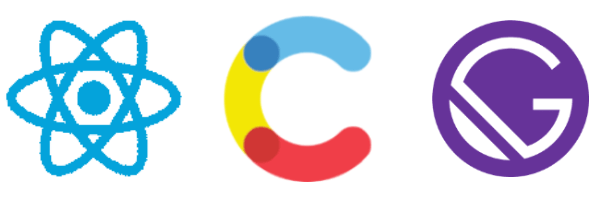
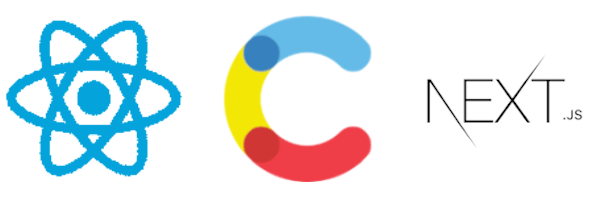
add new projects and change marketing to content man..

Changed region(s): [[0.69, 0.09, 0.99, 0.9]]

diff --git a/src/data/projects.js b/src/data/projects.js
@@ -5,11 +5,12 @@ import BibusIcon from '../images/our-work/Icons02-BIBUS.png';
 import BibusImg from '../images/our-work/bibus01.png';
 import MSM from '../images/our-work/msmnet.png';
 import PortfolioIcon from '../images/our-work/Icons02-Portfolio.png';
-import SilverbackImg from '../images/our-work/traveling-silverback01.png';
-import SilverbackIcon from '../images/our-work/weeblyIcon.png';
-import HTEIcon2 from '../images/our-work/Icons02-HTE-S.png';
-import JakeLifeImg from '../images/our-work/jake-life.png';
-import JakeLifeIcons from '../images/our-work/jakeIcons.png';
+import LiveAbroadImage from '../images/our-work/live-abroad-now.png';
+import LiveAbroadIcons from '../images/our-work/live-abroad-icons.png';
+import HTEIcon2 from '../images/our-work/hte-icons.png';
+import VenturaTravelImg from '../images/our-work/ventura-travel.png';
+import VenturaTravelIcons from '../images/our-work/ventura-travel-icon.png';
+import SocialSpanishIcons from '../images/our-work/jakeIcons.png';
 import LogoIcons from '../images/our-work/logoIcons.png';
 import AccountingImg from '../images/our-work/accounting.png';
 import AccountingIcon from '../images/our-work/accountingIcon.png';
@@ -19,6 +20,16 @@ import SocialSpanish from '../images/our-work/socialSpanish.png';
 const projects = [
   {
     id: 1,
+    title: 'Ventura Travel',
+    desc:
+      'We support the German company Ventura-Travel to build a complex, multi-brand, multi-language website with a custom CMS/admin. A primary focus is the SEO performance.',
+    img: VenturaTravelImg,
+    icon: VenturaTravelIcons,
+    link: 'https://www.viventura.de/',
+    category: 'web',
+  },
+  {
+    id: 2,
     title: 'Accounting App',
     desc: `This is an accounting app for income, expenses and capital. It's built with React.js, Firebase and Material Design. Login is test@test.com - 123456`,
     img: AccountingImg,
@@ -26,22 +37,12 @@ const projects = [
     link: 'https://accounting3-test-env-dev.netlify.app/',
     category: 'web',
   },
-  {
-    id: 2,
-    title: 'MSMNET Security',
-    desc:
-      'The goal of this project was to create a clear call to action to generate more leads for the client. The website is fully customized and performant.',
-    img: MSM,
-    icon: PortfolioIcon,
-    link: 'https://www.msmnetsecurity.com/',
-    category: 'web',
-  },
 
   {
     id: 3,
     title: 'Medellin Real Estate',
     desc:
-      'This is a website which includes a database fetched directory and a fully functional real estate site, completely built by us.',
+      'This is a website which includes a database fetched CMS and a performant real estate website. The project was completely built by us.',
     img: HTMImg,
     icon: HTMIcon,
     link: 'https://medellin-real-estate.com/',
@@ -53,7 +54,7 @@ const projects = [
     desc:
       'Social Spanish is a website of an online entrepreneur. The goal of the website was to generate more leads, which we achieved with a special quiz.',
     img: SocialSpanish,
-    icon: JakeLifeIcons,
+    icon: SocialSpanishIcons,
     link: 'https://socialspanish.co/',
     category: 'design',
   },
@@ -70,12 +71,12 @@ const projects = [
 
   {
     id: 6,
-    title: 'Jake | Life Coach',
+    title: 'MSMNET Security',
     desc:
-      'We were able to created a personal coach website with a logo, branding and a blog. Important was to keep the design elegant and professional.',
-    img: JakeLifeImg,
-    icon: JakeLifeIcons,
-    link: 'https://lifebyjake.site/',
+      'The goal of this project was to create a clear call to action to generate more leads for the client. The website is fully customized and SEO performant.',
+    img: MSM,
+    icon: PortfolioIcon,
+    link: 'https://www.msmnetsecurity.com/',
     category: 'design',
   },
   {
@@ -87,24 +88,24 @@ const projects = [
     link: 'https://www.bibus.ch/',
     category: 'marketing',
   },
-
   {
     id: 8,
-    title: 'How To Expat',
+    title: 'Live Abroad Now',
     desc:
-      'With How To Expat we were able to generate more than USD 30k in sales in the first year. We executed a complete marketing plan, mostly based on organic traffic.',
-    img: HTEImg,
-    icon: HTEIcon2,
-    link: 'https://www.how-to-expat.com/',
+      'We were able to support Live Abroad Now to get over 3000 subscribers in 4 months. We have been offering support with content management and video editing.',
+    img: LiveAbroadImage,
+    icon: LiveAbroadIcons,
+    link: 'https://liveabroadnow.com/',
     category: 'marketing',
   },
   {
     id: 9,
-    title: 'Silverback',
-    desc: `This was the first ever website built in 2015. We got over 32k users in the first year through SEO. It's not active anymore but it holds a special place in our hearts.`,
-    img: SilverbackImg,
-    icon: SilverbackIcon,
-    link: 'https://travelingsilverback.weebly.com',
+    title: 'How To Expat',
+    desc:
+      'With How To Expat we were able to generate more than USD 30k in sales in the first year. We executed a complete marketing plan, based only on organic traffic.',
+    img: HTEImg,
+    icon: HTEIcon2,
+    link: 'https://www.how-to-expat.com/',
     category: 'marketing',
   },
 ];

diff --git a/src/pages/index.js b/src/pages/index.js
@@ -32,21 +32,21 @@ const IndexPage = () => (
       <ImgContent01
         title="Why So Technical?"
         img={Client}
-        desc="You are passionate about your new business idea. Communicating this idea to your online clients seems very technical and overwhelming though. This is where we come in …"
+        desc="You are passionate about your business. We support you in communicating this passion online, so you focus on your business and we on the technical aspects..."
         classAdd=""
         animation=""
       />
       <ImgContent01
         title="Your Goal – Our Focus"
         img={BiggerPicture}
-        desc="… we worked many years in sales which makes us see the web differently. This allows us to focus on your goal, instead of loosing ourselves in technical details …"
+        desc="...we worked many years in sales which makes us see the web differently. This allows us to focus on your goal, instead of loosing ourselves in technical details..."
         classAdd="img-content-img-wrapreverse"
         animation=""
       />
       <ImgContent01
         title="Launch Together"
         img={Launch}
-        desc="… let's launch your new idea in a way that your clients will love. Working with us makes the process of reaching that goal fun and productive."
+        desc="...let's launch your new idea in a way that your clients will love. Working with us makes this process fun and productive."
         classAdd=""
         animation=""
       />
@@ -59,10 +59,10 @@ const IndexPage = () => (
           title="Web Development"
           listItems={[
             'Websites',
-            'HTML, CSS, JS',
+            'Web-Apps',
+            'React (Next.js)',
             'Wordpress',
             'Wix (Advanced)',
-            'React',
           ]}
           buttonText="See Projects"
           buttonPath="/our-work/#web"
@@ -84,12 +84,12 @@ const IndexPage = () => (
         />
         <ServicesCards
           icon={Marketing}
-          title="Online Marketing"
+          title="Content Management"
           listItems={[
-            'SEO Strategy',
-            'Facebook Ads',
-            'Google Ads',
-            'Content Writing',
+            'Youtube',
+            'Facebook',
+            'Blog',
+            'SEO',
             'Marketing Strategy',
           ]}
           buttonText="See Projects"

diff --git a/src/pages/our-work.js b/src/pages/our-work.js
@@ -90,7 +90,7 @@ const OurWork = () => {
         return 'Design & Branding';
 
       case 'marketing':
-        return 'Online Marketing';
+        return 'Content Management';
 
       default:
         return '';
@@ -134,9 +134,9 @@ const OurWork = () => {
 
           <Card04
             icon={Marketing}
-            title="Online Marketing"
+            title="Content Management"
             activeStyle={card43Style}
-            value={'marketing'}
+            value="marketing"
             handleSmallCardClick={handleSmallCardClick}
           />
         </div>
